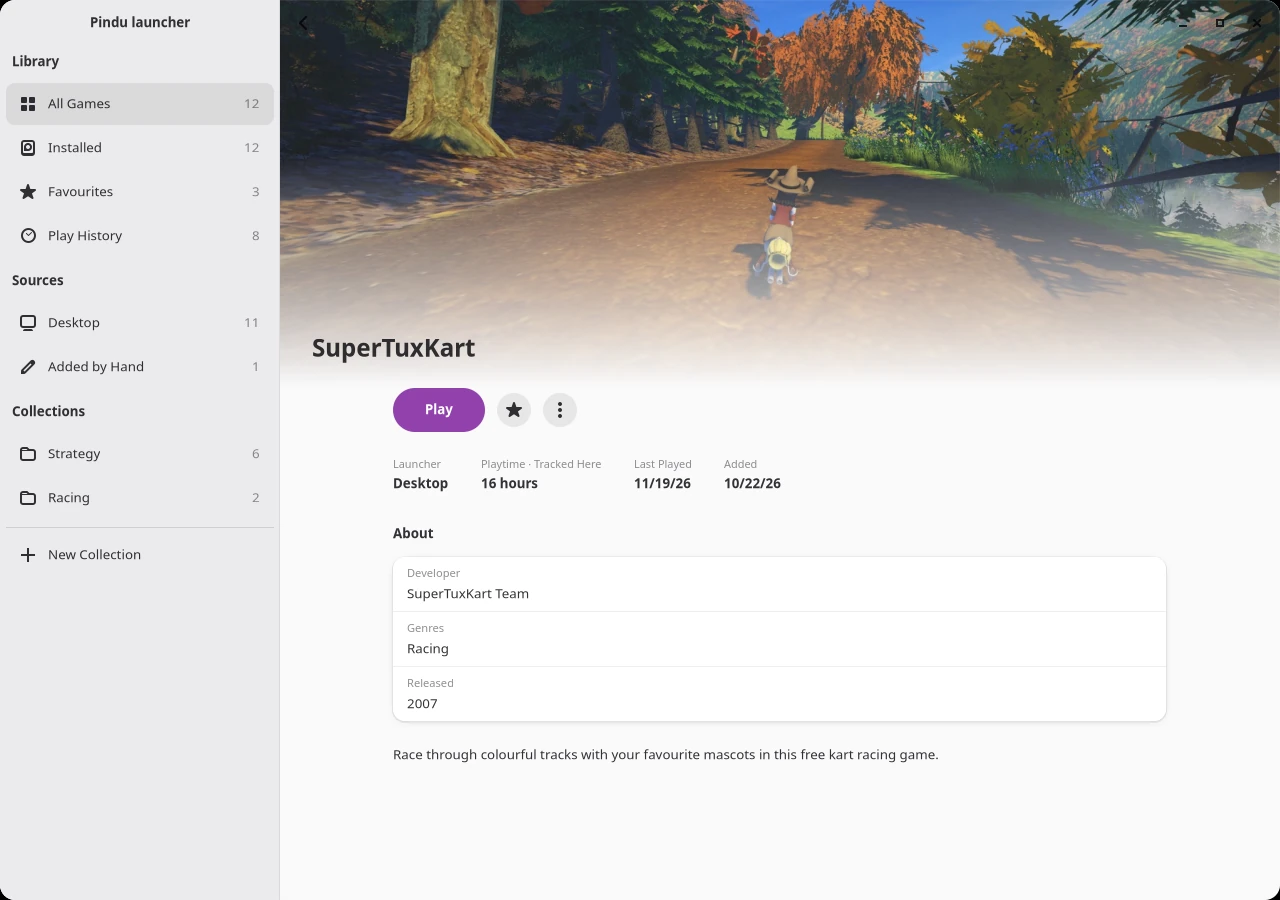
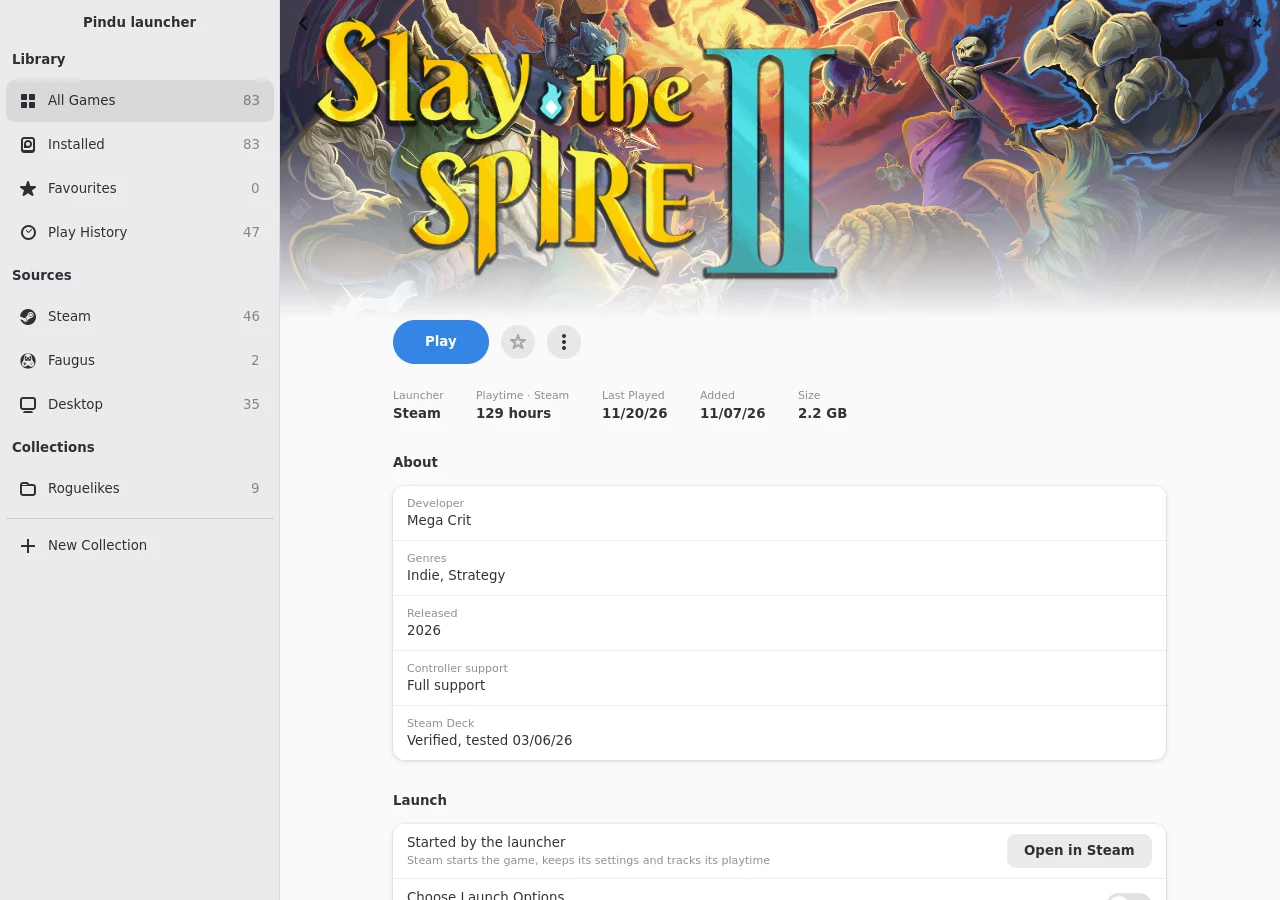
docs(readme): refresh the screenshots and show every fullscreen look (#702)
The desktop screenshots are retaken with the launcher icons, and the fullscreen section
now shows each look, labelled, with its Home and Library side by side: Lobby, the
default, also with the menu drawer and Quick Access, then Marquee, Shelves and Adwaita.
All come from the maintainer's own library, so the Licence table credits the game art
to its publishers, and CREDITS.md covers the store screenshots alone.

diff --git a/README.md b/README.md
@@ -17,15 +17,15 @@
 </div>
 
 <p align="center">
-  <img src="docs/screenshots/desktop-1-library.webp" width="820" alt="Desktop library with a sidebar for library views, sources and collections, filter chips above the cover grid, and a Jump Back In row with SuperTuxKart, Hedgewars, SuperTux and Mindustry">
+  <img src="docs/screenshots/desktop-1-library.webp" width="820" alt="Desktop library with a sidebar for library views, sources with their launcher icons and a Roguelikes collection, filter chips above the cover grid, and a Jump Back In row with Balatro, Slay the Spire 2, Slay the Spire and Drop Duchy">
 </p>
 
 <p align="center">
-  <img src="docs/screenshots/desktop-2-game-page.webp" width="405" alt="SuperTuxKart's game page with racing banner art, a Play button, playtime tracked by Pindu launcher and About details">
-  <img src="docs/screenshots/desktop-3-play-history.webp" width="405" alt="Play History with libre games played this week, showing their last-played dates and tracked playtime">
+  <img src="docs/screenshots/desktop-2-game-page.webp" width="405" alt="Slay the Spire 2's game page with its banner art, a Play button, 129 hours of Steam playtime and About details from Steam">
+  <img src="docs/screenshots/desktop-3-play-history.webp" width="405" alt="Play History with the games played this week and earlier, each with its last-played date and playtime">
   <br>
-  <img src="docs/screenshots/desktop-4-collection.webp" width="405" alt="The Strategy collection with covers for Hedgewars, Mindustry, 0 A.D., Battle for Wesnoth, MegaGlest and Warzone 2100">
-  <img src="docs/screenshots/desktop-5-game-page-dark.webp" width="405" alt="Hedgewars' game page in dark style, with snowy banner art and its game details">
+  <img src="docs/screenshots/desktop-4-collection.webp" width="405" alt="The Roguelikes collection with covers for Balatro, Slay the Spire 2, Slay the Spire, The Loopler, The Bazaar, Streets of Rogue, Slots &amp; Daggers and CloverPit">
+  <img src="docs/screenshots/desktop-5-game-page-dark.webp" width="405" alt="Balatro's game page in dark style, with its logo over the banner art and its game details">
 </p>
 
 ## Status
@@ -208,17 +208,43 @@ A controller-first view of the same library, for the couch, a TV or a Steam Deck
 **To open it:** press <kbd>F11</kbd>, start the app with `--fullscreen`, or turn on **Start in Fullscreen Mode** in
 Preferences.
 
-<p align="center">
-  <img src="docs/screenshots/fullscreen-1-home.webp" width="820" alt="Fullscreen Home in the Lobby design: a row of labelled section tiles across the top over the red animated background, with Recently Played focused and its five covers previewed below">
-</p>
+Fullscreen mode comes in four looks, picked in **Quick Access → Design**: three designs that ship with the app and
+Adwaita, the look with no design ([Styling fullscreen mode](#styling-fullscreen-mode)).
 
-<p align="center">
-  <img src="docs/screenshots/fullscreen-2-adwaita.webp" width="405" alt="Fullscreen Home in Adwaita, the look with no design: the Home and Library tabs in the middle of the top bar, a banner for Lanternkeep with Play focused, a row of section tiles and a row of covers">
-  <img src="docs/screenshots/fullscreen-3-library.webp" width="405" alt="Fullscreen Library with All, Installed and Favourites tabs and a grid of Steam games sorted by Last Played, with the Play button on Slay the Spire 2">
-  <br>
-  <img src="docs/screenshots/fullscreen-4-game-page.webp" width="405" alt="Drop Duchy's fullscreen game page with its logo and artwork, the Play button, Steam playtime, controller support and Steam Deck compatibility">
-  <img src="docs/screenshots/fullscreen-5-quick-access.webp" width="405" alt="Quick Access open to Design over fullscreen Home in the Lobby design: Lobby is chosen among Adwaita, Lobby, Marquee and Shelves, and under Background Red Ribbons is selected with Blue Station available">
-</p>
+<table>
+  <tr>
+    <th colspan="2">Lobby, the default design</th>
+  </tr>
+  <tr>
+    <td align="center"><img src="docs/screenshots/fullscreen-lobby-home.webp" width="405" alt="Lobby's Home: labelled section tiles across the top over the red animated background, with Recently Played focused and its covers previewed below"><br><sub>Home</sub></td>
+    <td align="center"><img src="docs/screenshots/fullscreen-lobby-library.webp" width="405" alt="Lobby's Library: All, Installed and Favourites tabs over a grid of covers sorted by Last Played, with Play on Balatro"><br><sub>Library</sub></td>
+  </tr>
+  <tr>
+    <td align="center"><img src="docs/screenshots/fullscreen-lobby-menu.webp" width="405" alt="The menu drawer open over Lobby's Home: Home, Library, Controls, Exit Fullscreen Mode and Power"><br><sub>Menu (Start)</sub></td>
+    <td align="center"><img src="docs/screenshots/fullscreen-lobby-quick-access.webp" width="405" alt="Quick Access open over Lobby's Home: Notifications, Refresh Library, Refresh Metadata, Surprise Me, Design, Controllers, Controls, Settings and Sources"><br><sub>Quick Access (R3, or Guide + A)</sub></td>
+  </tr>
+  <tr>
+    <th colspan="2">Marquee</th>
+  </tr>
+  <tr>
+    <td align="center"><img src="docs/screenshots/fullscreen-marquee-home.webp" width="405" alt="Marquee's Home: Balatro's art across the screen under Jump Back In, its logo and details, and a row of recent games then section tiles"><br><sub>Home</sub></td>
+    <td align="center"><img src="docs/screenshots/fullscreen-marquee-library.webp" width="405" alt="Marquee's Library: a grid of covers sorted by Last Played, with Play on Balatro"><br><sub>Library</sub></td>
+  </tr>
+  <tr>
+    <th colspan="2">Shelves</th>
+  </tr>
+  <tr>
+    <td align="center"><img src="docs/screenshots/fullscreen-shelves-home.webp" width="405" alt="Shelves' Home: Balatro's logo and details at the top, then a Jump Back In row of wide cards and an Installed row of covers"><br><sub>Home</sub></td>
+    <td align="center"><img src="docs/screenshots/fullscreen-shelves-library.webp" width="405" alt="Shelves' Library: a grid of covers sorted by Last Played, with Play on Balatro"><br><sub>Library</sub></td>
+  </tr>
+  <tr>
+    <th colspan="2">Adwaita (no design)</th>
+  </tr>
+  <tr>
+    <td align="center"><img src="docs/screenshots/fullscreen-adwaita-home.webp" width="405" alt="Adwaita's Home: Home and Library tabs in the middle of the top bar, a banner for Balatro with Play focused, a row of section tiles and an Installed row of covers"><br><sub>Home</sub></td>
+    <td align="center"><img src="docs/screenshots/fullscreen-adwaita-library.webp" width="405" alt="Adwaita's Library: pill tabs for All, Installed and Favourites over a grid of covers, with Play on Balatro"><br><sub>Library</sub></td>
+  </tr>
+</table>
 
 ### Getting around
 
@@ -849,6 +875,5 @@ Corporation in the U.S. and/or other countries.
 | `data/home/` (fullscreen Home's art) | [GPL-3.0-or-later](data/home/LICENSE) |
 | `data/icons/sources/` (launcher icons) | Each icon's own terms, listed in [`LICENSE`](data/icons/sources/LICENSE): the Steam logo (Simple Icons, CC0 1.0, used under Valve's branding guidelines), Cartridges' Lutris, Bottles and Legendary icons (GPL-3.0-or-later), Faugus Launcher's logo (MIT) and the itch.io logo (itch.io press kit) |
 | `docs/brand/readme-banner.svg` | [GPL-3.0-or-later](LICENSE); the outlined text is [Adwaita Sans](https://gitlab.gnome.org/GNOME/adwaita-fonts), SIL Open Font License 1.1 |
-| Game art in `data/screenshots/` and `docs/screenshots/desktop-*.webp` | Each game's own licence, listed in [`CREDITS.md`](data/screenshots/CREDITS.md) |
-| Game art in `docs/screenshots/fullscreen-3-library.webp` and `fullscreen-4-game-page.webp` | Belongs to each game's publisher; shown as Pindu launcher displays a real library |
-| Game art in `docs/screenshots/fullscreen-1-home.webp`, `fullscreen-2-adwaita.webp` and `fullscreen-5-quick-access.webp` | Invented games, their art made by Tim van Oudheusden for the design mockups; no licence |
+| Game art in `data/screenshots/` | Each game's own licence, listed in [`CREDITS.md`](data/screenshots/CREDITS.md) |
+| Game art in `docs/screenshots/` | Belongs to each game's publisher; shown as Pindu launcher displays a real library |

diff --git a/AI_DISCLOSURE.md b/AI_DISCLOSURE.md
@@ -50,7 +50,7 @@ made without AI. Binary files (images, video, PDFs) count no lines; they are lis
 | `data/ui` (Blueprint UI) | 78 of 78 (100%) | 100% | 0% | Entirely AI-written |
 | MetaInfo (`data/*.metainfo.xml.in`) | 8 of 9 (89%) | 67% | 41% | Mixed: the text is a person's (#58); release notes, branding and later edits are AI-written |
 | `data/icons` | 6 of 6 (100%) | 100% | 0% | AI-made: an AI agent redrew the person's icon artwork (`assets/pindu_icon.png`) as the SVG app icons (#57, PR #102) and drew the controller glyphs. The launcher icons in `data/icons/sources/` are not AI-made: they are other projects' files copied by an AI agent, unchanged but for the Faugus logo's stylesheet (#693) |
-| `data/screenshots` | 0 of 2 | 0% | 100% | A person's, without AI (#58) |
+| `data/screenshots` | 0 of 2 | 0% | 100% | A person's, without AI (#58); an AI agent later narrowed `CREDITS.md`'s opening sentence to this folder when the README's screenshots stopped showing the demo library (#702) |
 | Other `data/` (desktop, GSettings, D-Bus, CSS, fullscreen designs, Home art) | 61 of 62 (98%) | 100% | 0% | AI-written, except Home's background video (below) |
 | `po/` (translations) | 80 of 90 (89%) | 68% | 0% | The template and the build files are AI-made; the translations come from people in Weblate |
 | `tests/` | 6 of 6 (100%) | 100% | 0% | Entirely AI-written |

diff --git a/.claude/session-summary.md b/.claude/session-summary.md
@@ -8,6 +8,13 @@ Format: date, issue/PR worked, outcome, open follow-ups, gotchas for next time.
 
 ## Latest session
 
+- 2026-11-21, #702: README screenshots retaken from the maintainer's real library with the released 0.6.0 bundle,
+  installed in a throwaway Flatpak installation (`FLATPAK_USER_DIR`) and run in headless gamescope by
+  `/tmp/real-shot.sh`. That bundle uses the real `~/.var/app/<id>` profile whatever `--env` says, so the profile was
+  copied aside first (a Roguelikes collection was added to the copy in use) and restored byte for byte after.
+  Gotchas: one gamescope left running keeps `gamescope-0`, so later screenshots silently came from it and a second
+  `flatpak run` only activated the stale app: export each instance's `GAMESCOPE_WAYLAND_DISPLAY`. The uinput pad
+  needs about 3 s before its first press counts. Desktop shots are 1280×900, fullscreen 1280×720.
 - 2026-11-21, Release 0.6.0 (#664, reopened): the maintainer called the final after testing rc.1 and everything
   since by hand, waiving the rc.2 that `docs/releasing.md` asks for when more than the version bump has landed since
   the last pre-release. Branch `release/664-v0.6.0-final` (the rc.1 branch `release/664-v0.6.0` is stale and still on

diff --git a/data/screenshots/CREDITS.md b/data/screenshots/CREDITS.md
@@ -1,9 +1,9 @@
 # Screenshot credits
 
-The screenshots in this folder and the `desktop-*.webp` images in [`docs/screenshots/`](../../docs/screenshots/)
-show Pindu launcher with demo libraries of free and open-source games. The art comes only from each game's
-official screenshots and icon as published in its Flathub (AppStream) listing, under the licence given there.
-The game screenshots were cropped for covers and banners, and the covers have the game's name in Adwaita Sans.
+The screenshots in this folder show Pindu launcher with demo libraries of free and open-source games. The art
+comes only from each game's official screenshots and icon as published in its Flathub (AppStream) listing, under
+the licence given there. The game screenshots were cropped for covers and banners, and the covers have the game's
+name in Adwaita Sans.
 
 | Game | Licence (from its AppStream data) | Developer | Homepage | Art used |
 |---|---|---|---|---|
